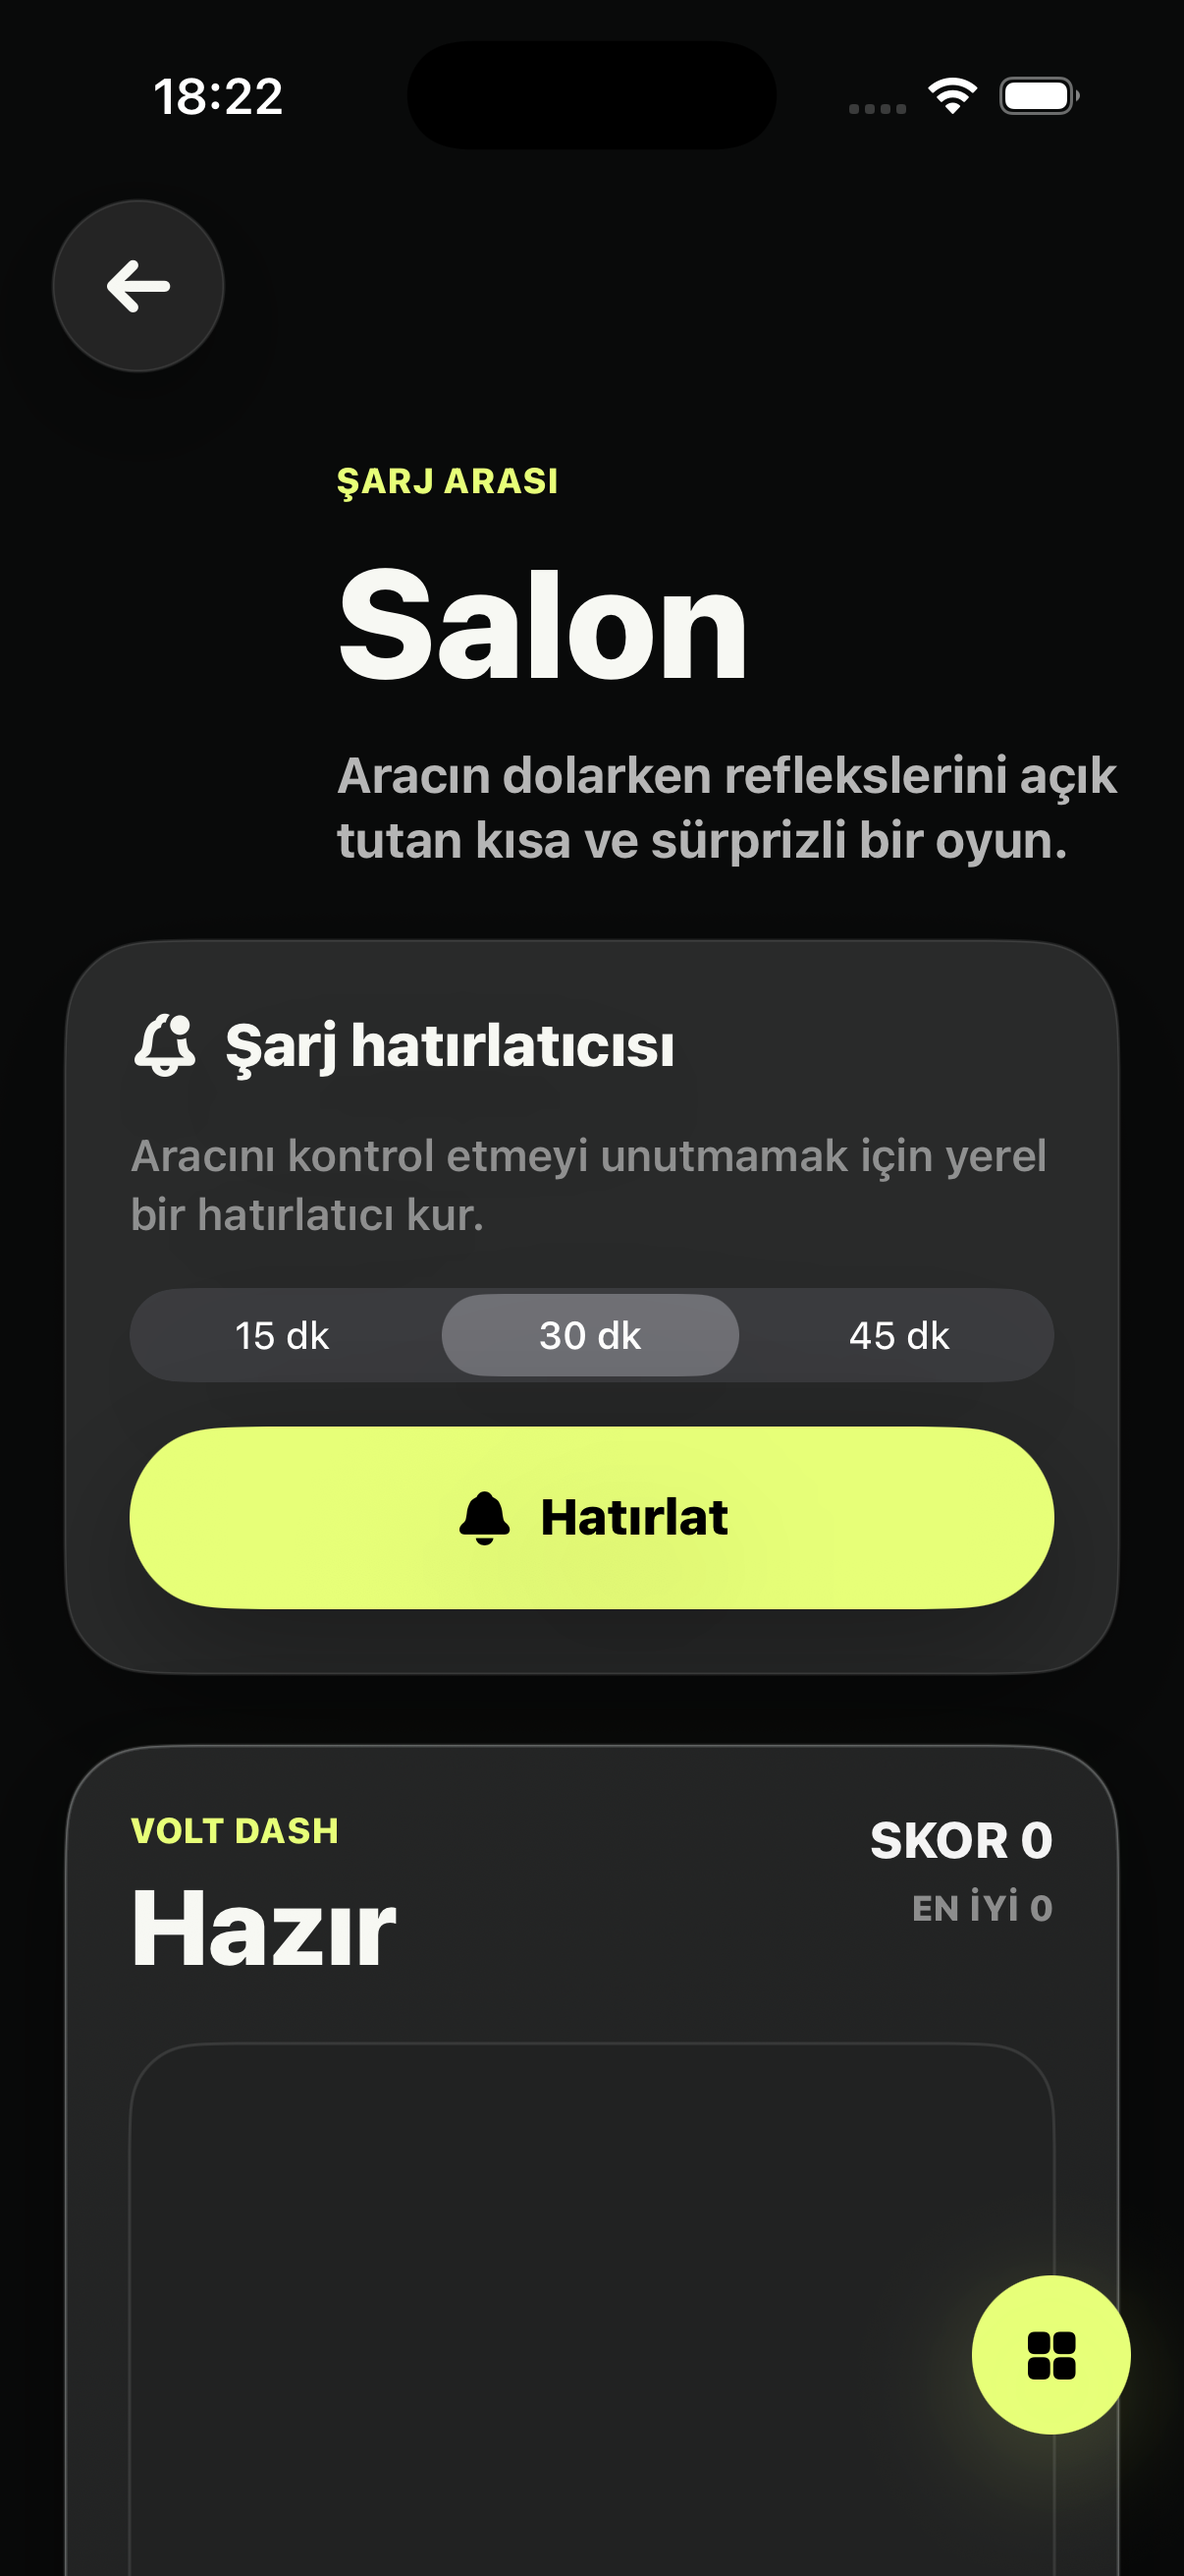
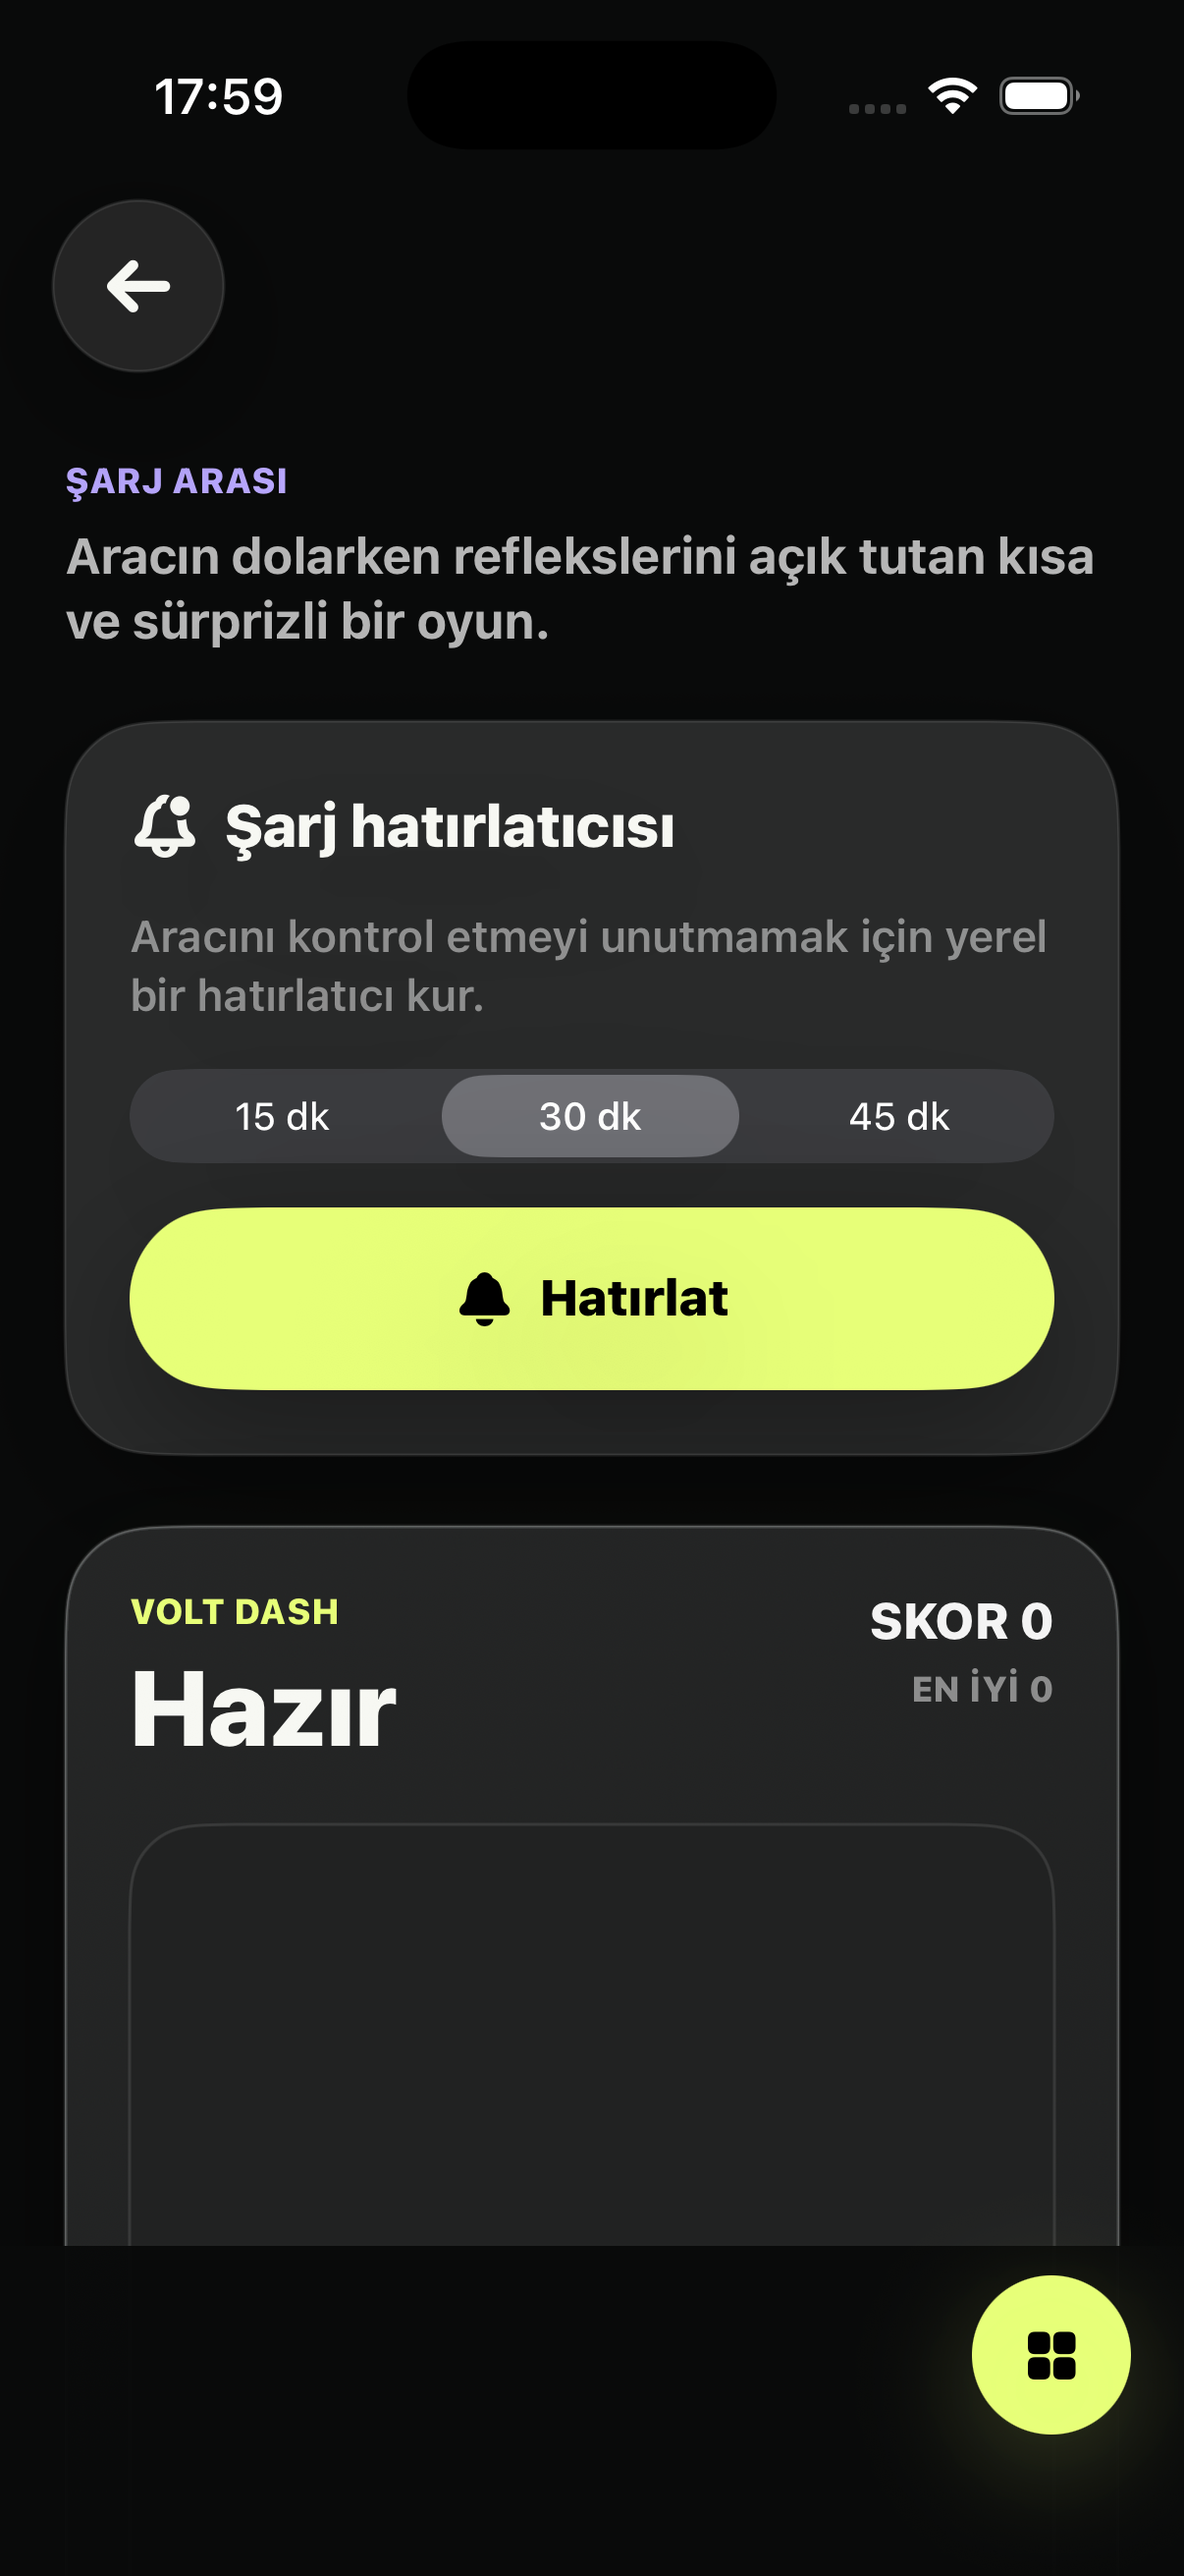
Refine lounge header and accent

diff --git a/SarjBul/Features/Lounge/WaitingLoungeView.swift b/SarjBul/Features/Lounge/WaitingLoungeView.swift
@@ -17,7 +17,6 @@ struct WaitingLoungeView: View {
     @State private var reminderMinutes = 30
     @State private var reminderMessage: String?
     @State private var reminderScheduled = false
-    @ScaledMetric(relativeTo: .largeTitle) private var titleSize = 52
     @ScaledMetric(relativeTo: .title) private var statusSize = 36
 
     private let timer = Timer.publish(every: 0.025, on: .main, in: .common)
@@ -52,6 +51,7 @@ struct WaitingLoungeView: View {
         .onDisappear {
             stopTimer()
         }
+        .accessibilityIdentifier("lounge-screen")
     }
 
     private var breakAssistantPanel: some View {
@@ -164,22 +164,16 @@ struct WaitingLoungeView: View {
     }
 
     private var header: some View {
-        VStack(alignment: .leading, spacing: 10) {
+        VStack(alignment: .leading, spacing: 8) {
             Text(settings.t("lounge.kicker"))
                 .font(.caption.weight(.heavy))
-                .foregroundStyle(SBColor.signal)
+                .foregroundStyle(SBColor.loungeAccent)
                 .textCase(.uppercase)
-            Text(settings.t("lounge.title"))
-                .font(SBFont.display(size: min(titleSize, 72), weight: .heavy))
-                .foregroundStyle(SBColor.ink)
-                .lineLimit(1)
-                .minimumScaleFactor(0.78)
             Text(settings.t("lounge.subtitle"))
                 .font(.headline.weight(.bold))
                 .foregroundStyle(SBColor.textSoft)
                 .fixedSize(horizontal: false, vertical: true)
         }
-        .padding(.leading, 92)
     }
 
     private var gamePanel: some View {

diff --git a/SarjBul/App/RootView.swift b/SarjBul/App/RootView.swift
@@ -197,6 +197,7 @@ struct RootView: View {
 
     private func tabButton(_ tab: AppTab) -> some View {
         let isSelected = navigation.tab == tab
+        let selectedColor = tab == .lounge ? SBColor.loungeAccent : SBColor.signal
         return Button {
             Haptic.tap()
             if reduceMotion {
@@ -223,7 +224,7 @@ struct RootView: View {
             .foregroundStyle(isSelected ? SBColor.onSignal : SBColor.textSoft)
             .frame(maxWidth: .infinity)
             .frame(height: 58)
-            .background(isSelected ? SBColor.signal : SBColor.surface.opacity(0.72))
+            .background(isSelected ? selectedColor : SBColor.surface.opacity(0.72))
             .clipShape(RoundedRectangle(cornerRadius: 22, style: .continuous))
             .overlay(
                 RoundedRectangle(cornerRadius: 22, style: .continuous)

diff --git a/SarjBulUITests/AppSmokeUITests.swift b/SarjBulUITests/AppSmokeUITests.swift
@@ -35,6 +35,15 @@ final class AppSmokeUITests: XCTestCase {
         XCTAssertFalse(app.descendants(matching: .any)["location-input"].exists)
     }
 
+    func testLoungeOmitsRedundantPageTitle() throws {
+        let app = XCUIApplication()
+        app.launchArguments = ["--ui-testing-lounge"]
+        app.launch()
+
+        XCTAssertTrue(app.descendants(matching: .any)["lounge-screen"].waitForExistence(timeout: 12))
+        XCTAssertFalse(app.staticTexts["Salon"].exists)
+    }
+
     func testHabitSuggestionAppearsAfterRepeatedUse() throws {
         let app = XCUIApplication()
         app.launchArguments = ["--ui-testing-habit"]

diff --git a/SarjBul/DesignSystem/SBColor.swift b/SarjBul/DesignSystem/SBColor.swift
@@ -39,6 +39,7 @@ enum SBColor {
     static let danger = SBGeneratedTokens.danger.color
     static let warning = SBGeneratedTokens.warning.color
     static let electricBlue = SBGeneratedTokens.electricBlue.color
+    static let loungeAccent = SBGeneratedTokens.loungeAccent.color
     static let glass = SBGeneratedTokens.glass.color
     static let glassStrong = SBGeneratedTokens.glassStrong.color
     static let signal = accent
